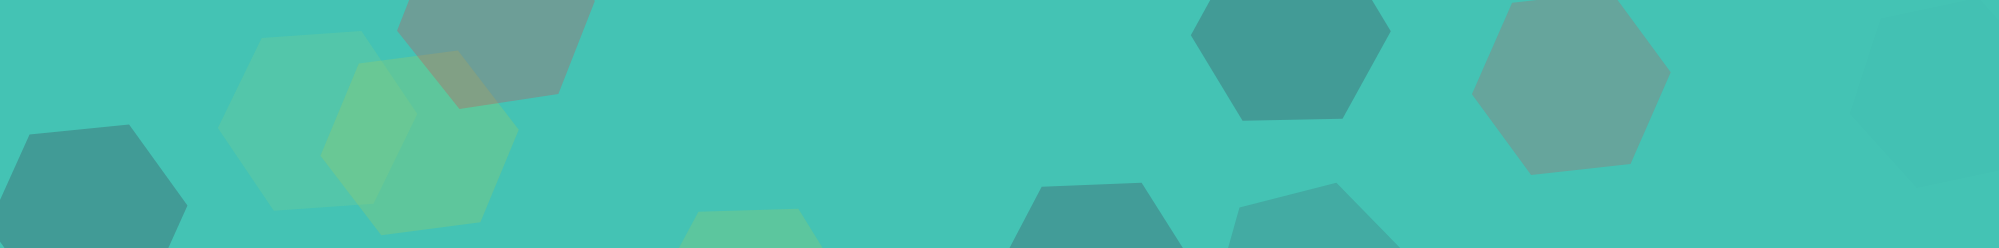
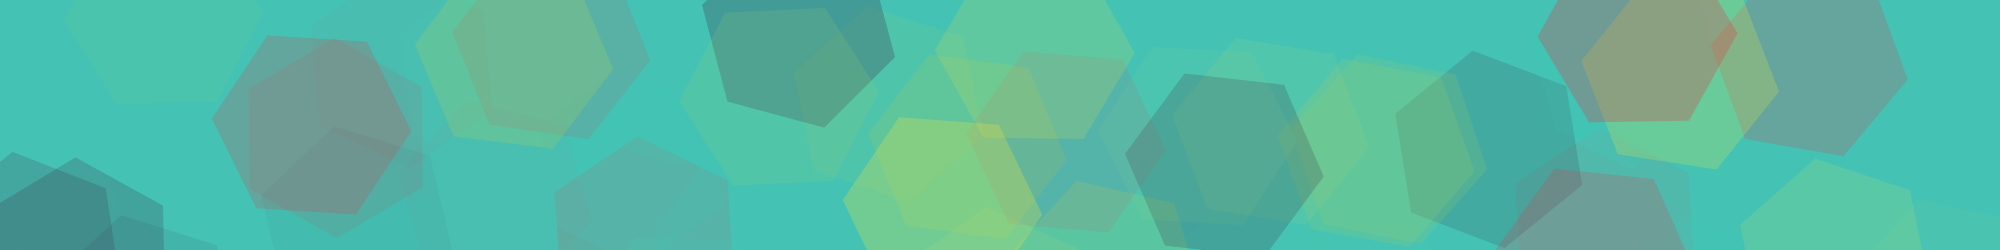
new bgrd

diff --git a/content/home/demo.md b/content/home/demo.md
@@ -31,7 +31,7 @@ title = "**LSU Pathways** STEM Certification"
   # gradient_end = "ForestGreen"
   
   # Background image.
-  image = "9.png"  # Name of image in `static/media/`.
+  image = "14.png"  # Name of image in `static/media/`.
    # image_darken = 1
 
    # Darken the image? Range 0-1 where 0 is transparent and 1 is opaque.

diff --git a/content/home/more.md b/content/home/more.md
@@ -32,7 +32,7 @@ title = "**Interested in getting involved?**"
   # gradient_end = "ForestGreen"
   
   # Background image.
-  image = "9.png"  # Name of image in `static/media/`.
+  image = "14.png"  # Name of image in `static/media/`.
    # image_darken = 1
 
    # Darken the image? Range 0-1 where 0 is transparent and 1 is opaque.
